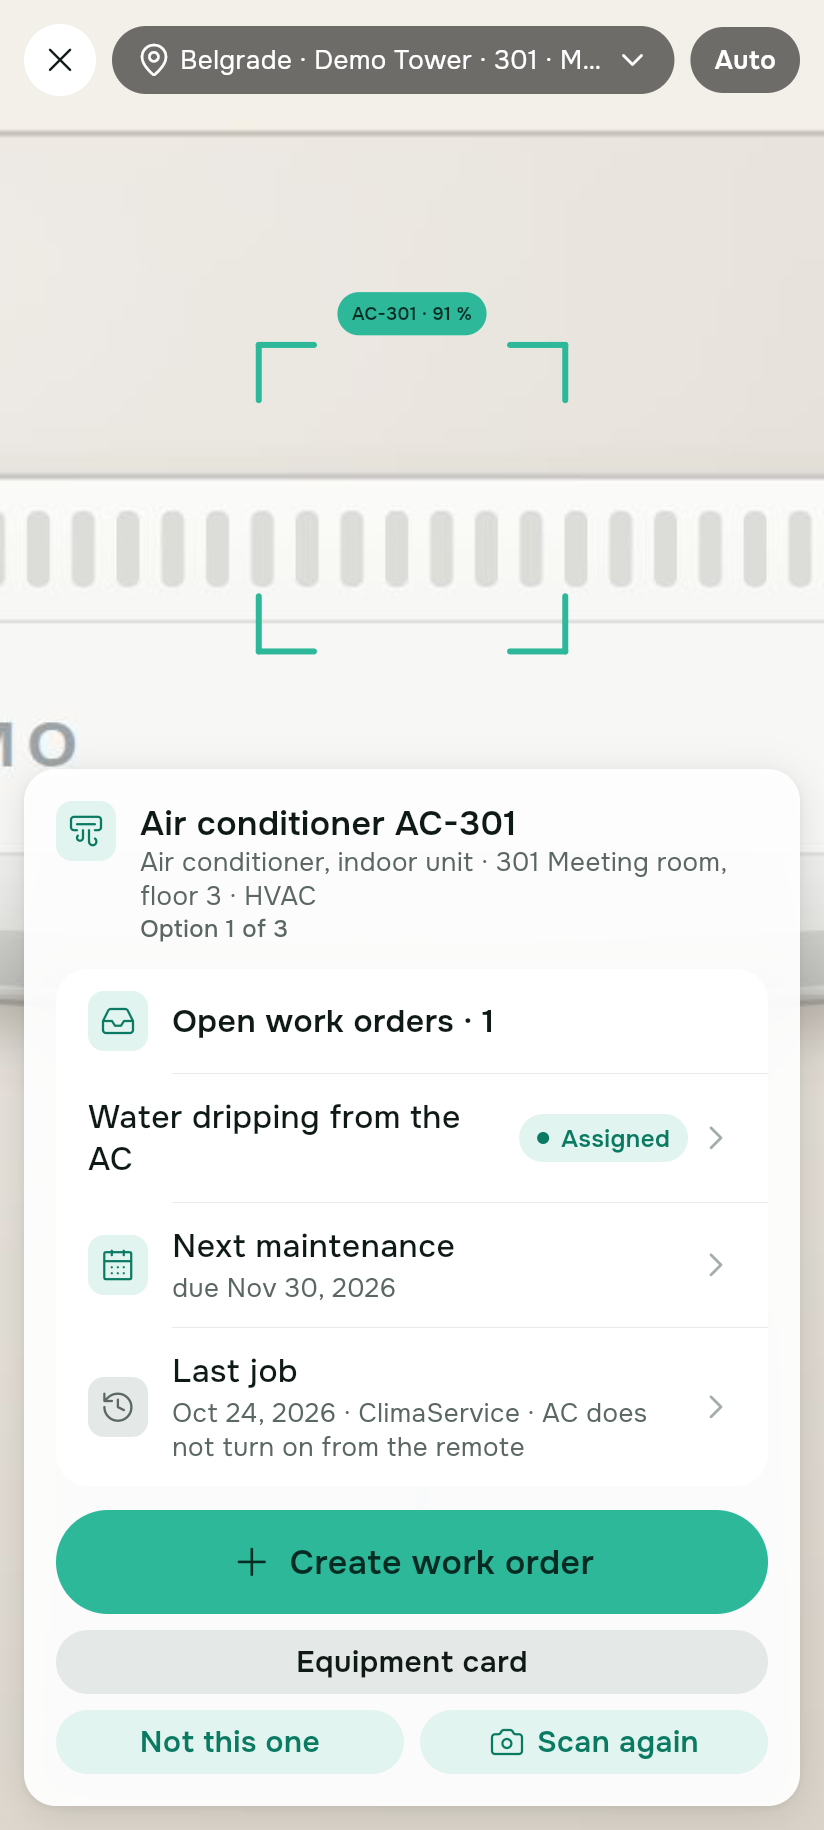
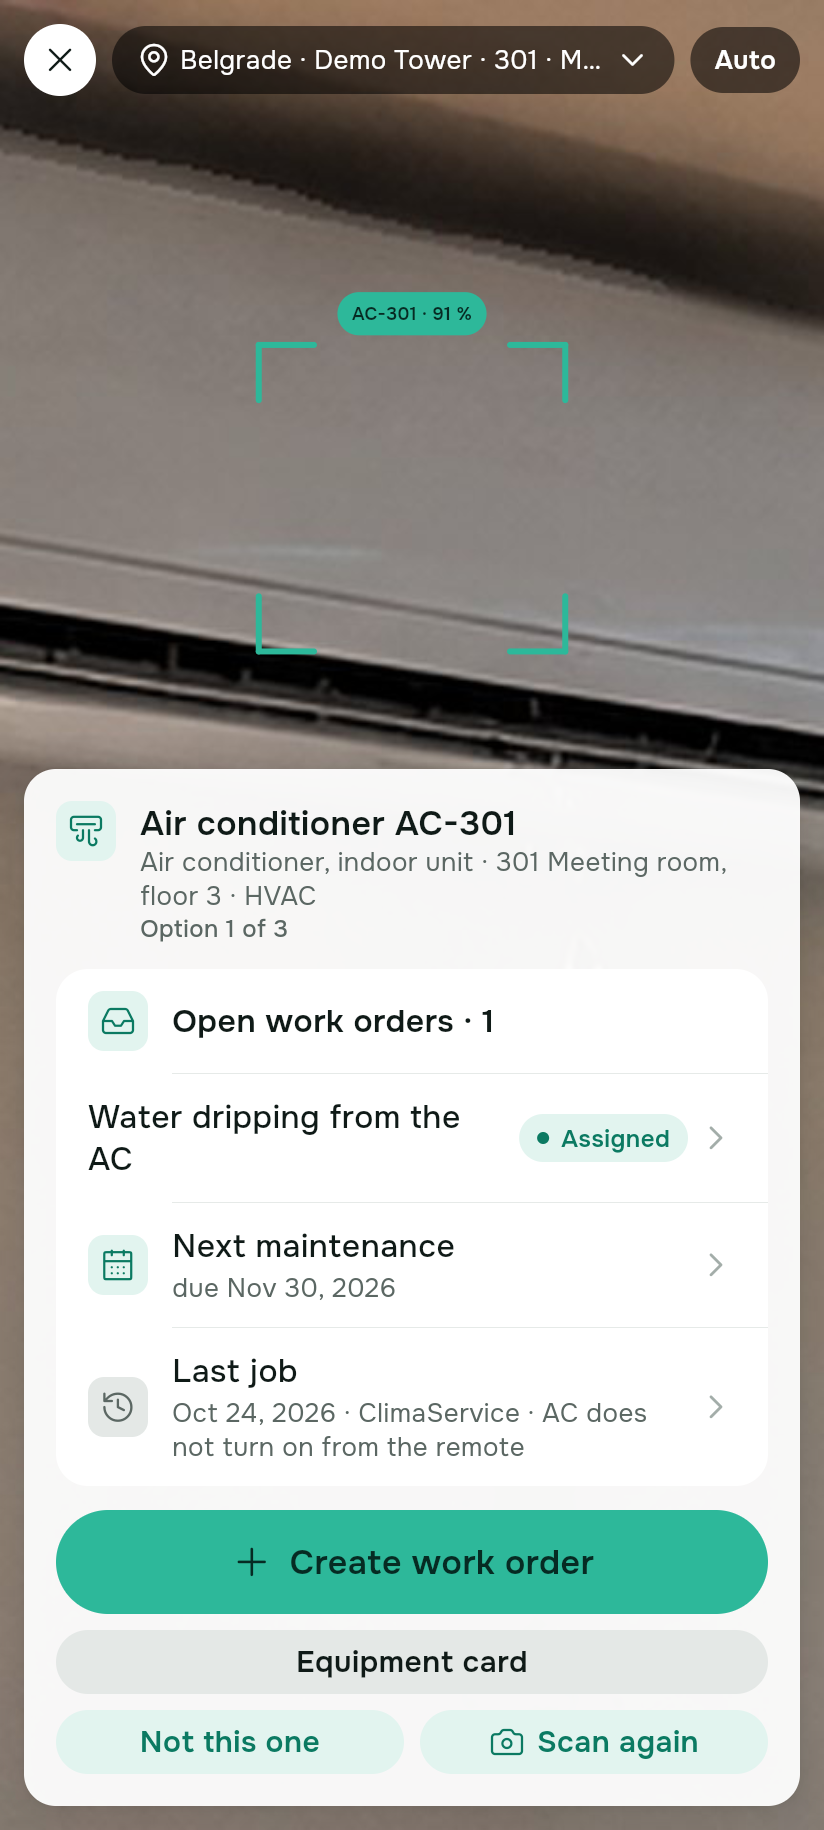
Шаг 35c (блок 3): вертикальные кадры заглушки камеры для телефона; кадры 18, 21 (рабочая база)

diff --git a/lib/features/camera/live_camera.dart b/lib/features/camera/live_camera.dart
@@ -85,11 +85,16 @@ Future<bool> liveCameraAvailable(
   }
 }
 
-/// Кадр-картинка вместо камеры (фрагмент иллюстрации художника, шаг 35c) (`VOICE_MOCK`, тесты). Не фото объекта.
+/// Кадр-картинка вместо камеры (`VOICE_MOCK`, тесты) — фрагмент иллюстрации
+/// художника (`tools/demo_photos/from_art.py`, шаг 35c). Не фото объекта.
 const kMockCameraFrame = 'assets/demo_photos/ac_indoor.jpg';
 
 /// Кадр заглушки для фото «после»: тот же блок, подтёка нет (шаг 35c).
 const kMockAfterFrame = 'assets/demo_photos/ac_after.jpg';
+
+/// Тот же сюжет кадром 1:2 — для высокого экрана телефона: при заполнении
+/// экрана картинкой 4:3 видна только треть ширины (середина блока).
+String mockTallFrame(String frame) => frame.replaceFirst('.jpg', '_tall.jpg');
 
 /// Заглушка камеры: «видео» — нарисованная картинка, кадр — её байты.
 class MockLiveCamera implements LiveCamera {
@@ -99,6 +104,12 @@ class MockLiveCamera implements LiveCamera {
 
   /// Картинка, которую «видит» камера.
   final String frame;
+
+  /// Последний экран был выше, чем шире, — снимок тоже вертикальный.
+  bool _tall = false;
+
+  /// Картинка под форму экрана: высокий — вертикальный кадр.
+  String get shownFrame => _tall ? mockTallFrame(frame) : frame;
 
   /// Чем «упасть» при [start] (тест экрана с ошибкой).
   final CameraProblem? fail;
@@ -127,12 +138,17 @@ class MockLiveCamera implements LiveCamera {
   }
 
   @override
-  Widget preview() => Image.asset(frame,
-      bundle: _bundle, fit: BoxFit.cover, gaplessPlayback: true);
+  Widget preview() => LayoutBuilder(builder: (context, c) {
+        _tall = c.hasBoundedHeight &&
+            c.hasBoundedWidth &&
+            c.maxHeight > c.maxWidth * 1.5;
+        return Image.asset(shownFrame,
+            bundle: _bundle, fit: BoxFit.cover, gaplessPlayback: true);
+      });
 
   @override
   Future<Uint8List> capture() async =>
-      (await _bundle.load(frame)).buffer.asUint8List();
+      (await _bundle.load(shownFrame)).buffer.asUint8List();
 
   /// Нарисованный кадр неподвижен — «телефон не двигается».
   @override

diff --git a/test/live_shot_test.dart b/test/live_shot_test.dart
@@ -1,7 +1,6 @@
 import 'dart:io';
 import 'dart:ui' as ui;
 
-import 'package:flutter/foundation.dart' show Uint8List;
 import 'package:flutter/material.dart';
 import 'package:flutter/services.dart';
 import 'package:flutter_localizations/flutter_localizations.dart';
@@ -37,6 +36,11 @@ void main() {
     expect(before, File(kMockCameraFrame).readAsBytesSync());
     expect(after, File(kMockAfterFrame).readAsBytesSync());
     expect(before, isNot(equals(after)));
+    expect(mockTallFrame(kMockCameraFrame),
+        'assets/demo_photos/ac_indoor_tall.jpg');
+    for (final f in [kMockCameraFrame, kMockAfterFrame]) {
+      expect(File(mockTallFrame(f)).existsSync(), isTrue, reason: f);
+    }
   });
 
   testWidgets('фото «после»: затвор → стоп-кадр → «Готово» — снимок камеры',

diff --git a/tools/demo_photos/from_art.py b/tools/demo_photos/from_art.py
@@ -14,6 +14,8 @@
                   (VOICE_MOCK, /screens, --pitch), снимок «Узнать по фото»
                   и проверка «Готовность к показу».
   ac_after.jpg  — «после»: тот же блок и тот же кадр, подтёк и капли убраны.
+  *_tall.jpg    — те же сюжеты кадром 1:2 для заглушки камеры на высоком
+                  экране телефона (на ПК — кадры 4:3).
 
 Угол каждого снимка — маленькая пометка «DEMO»: это нарисованная картинка,
 а не фото объекта.
@@ -38,6 +40,9 @@ MAX_BYTES = 300 * 1024
 # за краем — AC-301 в демо стоит в переговорной (там «Камера-помощник»
 # поднимает зелёную рамку над карточкой).
 AC_CROP = (322, 6, 810, 372)
+# Вертикальный кадр 1:2 для «живой камеры» на телефоне.
+TALL_CROP = (347, 6, 787, 886)
+TALL_SIZE = (720, 1440)
 
 
 def teal_masks(img):
@@ -134,7 +139,7 @@ def line_mask(size, p0, p1, width, dots=()):
     return m
 
 
-def demo_badge(img):
+def demo_badge(img, size=SIZE):
     """Маленькая пометка «DEMO» в правом верхнем углу."""
     d = ImageDraw.Draw(img, 'RGBA')
     try:
@@ -145,25 +150,25 @@ def demo_badge(img):
     x0, y0, x1, y1 = d.textbbox((0, 0), text, font=font)
     w, h = x1 - x0, y1 - y0
     pad = 10
-    X = SIZE[0] - w - 2 * pad - 24
+    X = size[0] - w - 2 * pad - 24
     Y = 24
     d.rounded_rectangle((X, Y, X + w + 2 * pad, Y + h + 2 * pad), radius=10, fill=(0, 0, 0, 110))
     d.text((X + pad - x0, Y + pad - y0), text, font=font, fill=(255, 255, 255, 230))
     return img
 
 
-def finish(img, name):
-    img = img.resize(SIZE, Image.LANCZOS)
+def finish(img, name, size=SIZE):
+    img = img.resize(size, Image.LANCZOS)
     img = img.filter(ImageFilter.UnsharpMask(radius=2, percent=60, threshold=2))
-    img = demo_badge(img)
+    img = demo_badge(img, size)
     path = OUT / name
     for q in (84, 80, 76, 72, 68):
         img.save(path, 'JPEG', quality=q, optimize=True, progressive=True)
         if path.stat().st_size <= MAX_BYTES:
             break
-    size = path.stat().st_size
-    assert size <= MAX_BYTES, f'{name}: {size} байт > 300 КБ'
-    print(f'{path.relative_to(ROOT)}  {SIZE[0]}×{SIZE[1]}  {size // 1024} КБ  q={q}')
+    nbytes = path.stat().st_size
+    assert nbytes <= MAX_BYTES, f'{name}: {nbytes} байт > 300 КБ'
+    print(f'{path.relative_to(ROOT)}  {size[0]}×{size[1]}  {nbytes // 1024} КБ  q={q}')
 
 
 def hotel_ac():
@@ -188,6 +193,11 @@ def hotel_ac():
     fixed = clone(clean, leak, -150, 0)
     finish(clean.crop(AC_CROP), 'ac_indoor.jpg')
     finish(fixed.crop(AC_CROP), 'ac_after.jpg')
+    # Вертикальные кадры для заглушки камеры на телефоне (экран ~1:2): блок
+    # целиком в середине по ширине; ниже подтёка — кровать, на кадре 21 её
+    # закрывает карточка.
+    finish(clean.crop(TALL_CROP), 'ac_indoor_tall.jpg', TALL_SIZE)
+    finish(fixed.crop(TALL_CROP), 'ac_after_tall.jpg', TALL_SIZE)
 
 
 if __name__ == '__main__':

diff --git a/docs/reports/step-35c.md b/docs/reports/step-35c.md
@@ -9,6 +9,38 @@
 - [ ] 4. Проверки (OCR, сайт, тесты), «было / стало»
 - [ ] Итог, «Что сделать вам», PR
 
+## Блок 1. Опись — где были нарисованные фото
+
+**Главное:** нарисованных «фото» в продукте всего два, оба — кондиционер AC-301. В базе демо-заявок у вложений путь `demo/ac_after.jpg` / `demo/ac_indoor.jpg`, а сами картинки лежат **внутри приложения** (`assets/demo_photos/`, `photo_repository.dart`: путь `demo/…` → картинка из сборки). Поэтому **Refresh demo не нужен**: новые картинки появятся на рабочей базе сами после слияния PR (сайт приложения — «Deploy web», APK — «Build APK»).
+
+| Где показывается | Файл | Сюжет | Как попадает |
+|---|---|---|---|
+| Фон «Камеры-помощника» в `/screens`, `--pitch` (кадр 21), сквозных сценариях и ролике (`VOICE_MOCK`) | `ac_indoor.jpg` | AC-301, «Water dripping» | `kMockCameraFrame` в `live_camera.dart` (`MockLiveCamera`) |
+| «Узнать по фото» с заглушкой (кадр 18, `/screens`) | `ac_indoor.jpg` | AC-301 | `kMockPhotoAsset` в `photo_identify_screen.dart` |
+| Фото «до» заявки 111 (кадр 24, галерея, миниатюра в карточке) | `ac_indoor.jpg` | AC-301 с подтёком | сид `demo_history.sql`, вложение `…a201`, путь `demo/ac_indoor.jpg` |
+| Фото «после» заявок 109–113, 214, 220, 225 (акт, карточки, галерея, ведомость) | `ac_after.jpg` | AC-301 после ремонта | сид, вложения `…a1NN`, `…a109`, путь `demo/ac_after.jpg` |
+| Макет чата Telegram «completed ✅» (кадр 22, ролик) | `ac_after.jpg` | AC-301 после | `tools/screens/tg_notify_mock.mjs` |
+| Фото «после» живой камерой в ролике v2 и сценарии 17 (кадры 25–27) | было `ac_indoor.jpg` (с подтёком!) → теперь `ac_after.jpg` | AC-301 после | заглушка камеры в `LiveShotScreen` |
+| «Готовность к показу» — проверка «По фото» | `ac_indoor.jpg` | AC-301 | `readiness_repository.dart` (настоящий ИИ) |
+| Замер рамки AR `tools/ar/box_probe.mjs`, `tools/e2e/recognition_eval.mjs`, тесты | оба | — | читают файлы напрямую |
+| Карточка оборудования, история | — | своих фото нет: показываются фото заявок (те же два файла) | — |
+| AR-кадр 29 | — | только с телефона владельца (ARCore), картинок из сборки нет | — |
+
+Других нарисованных фото (сантехника, свет, холодильник, камеры) **в демо нет** — ни в сиде, ни в сборке. Поэтому `faucet`, `pipe`, `fridge`, `led`, `cctv` не понадобились (⚠ см. «Решения»).
+
+## Блок 2. Новые демо-фото
+
+`tools/demo_photos/from_art.py` (только Pillow, исходники `assets/marketing/` не меняются): `python3 tools/demo_photos/from_art.py`.
+
+- Источник — `hotel_ac.png` (1672×941), кадр `(322, 6)–(810, 372)` — 488×366, 4:3 → 1280×960, лёгкая резкость. Блок по центру по горизонтали и в верхней части кадра (там «Камера-помощник» поднимает зелёную рамку над карточкой); на телефоне видна середина кадра — блок в ней.
+- Карточка художника («Air conditioner AC-412 · Water dripping · Open checklist») — за правым краем; изголовье кровати — за нижним (AC-301 в демо стоит в переговорной, кровать в кадре была бы странной).
+- Что заходило в кадр и стёрто: светящийся бирюзовый контур (яркая линия — заливка соседями; свечение вокруг — вычитание бирюзового света с оттенком стены по соседям), белая линия-выноска и точка. Текст не дорисовывался.
+- **«До»** `ac_indoor.jpg` — блок, капли и подтёк на стене. **«После»** `ac_after.jpg` — тот же кадр, подтёк и капли закрыты чистой стеной левее («штамп» со сдвигом 150 px, мягкий край). Картинки разные по сюжету.
+- В правом верхнем углу — маленькая пометка **DEMO** (как и раньше было видно, что это не фото объекта).
+- Размер: 62 КБ и 59 КБ (≤ 300 КБ), JPEG 1280×960 — как раньше, вёрстка не меняется.
+- Старый генератор SVG `tools/demo_photos/generate.mjs` удалён (он перезаписал бы новые файлы).
+- **Заглушка камеры для фото «после»** (`createLiveCamera(mockFrame:)`, `kMockAfterFrame`, `captureLivePhoto(after: true)`): раньше в ролике и сценарии 17 исполнитель «снимал результат», а в кадре был блок с подтёком. Теперь — чистый блок. На настоящей камере ничего не меняется. Тест — `test/live_shot_test.dart`.
+
 ## Журнал
 
 ## Где остановился
